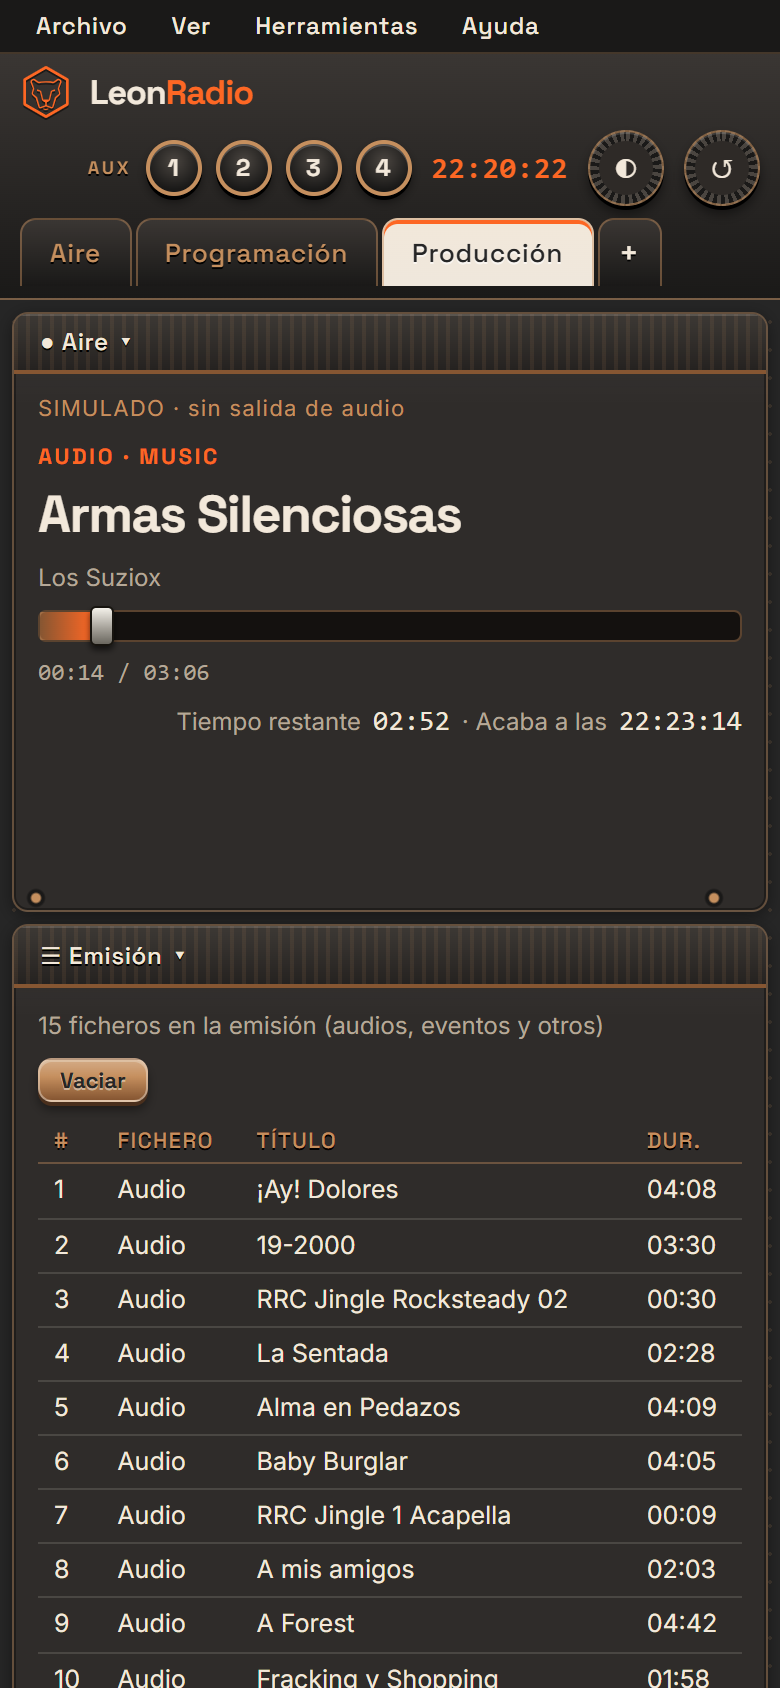
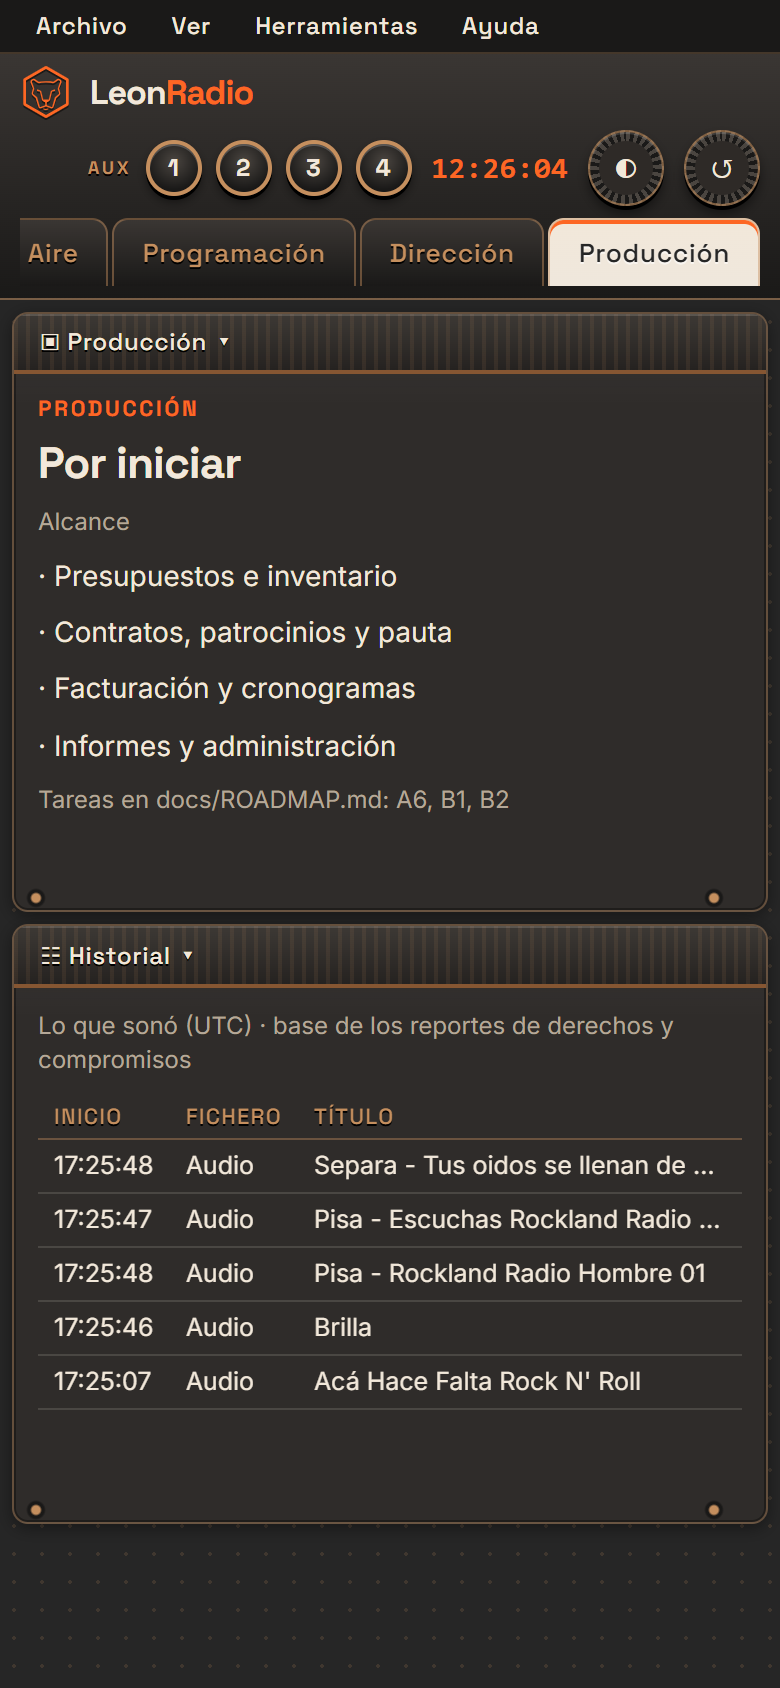
feat(ui): las cuatro estaciones como pestañas (Al Aire, Programación, Dirección, Producción) [S9]

diff --git a/ui/src/js/main.js b/ui/src/js/main.js
@@ -2,7 +2,7 @@ import { connectEvents, getEditors, getInfo } from "./api.js";
 import { AreaManager, area, hasEditor, split, toggleBeside } from "./areas.js";
 import { initMenus } from "./menus.js";
 
-const KEY = "leonradio.workspaces.v10";
+const KEY = "leonradio.workspaces.v11";
 // Tolerante: si un HTML viejo (en caché) no trae algún elemento, se usa uno suelto en vez de fallar.
 const $ = (s) => document.querySelector(s) ?? document.createElement("div");
 const store = {
@@ -13,7 +13,8 @@ const store = {
 const defaults = () => ({
   active: 0,
   list: [
-    { name: "Aire", tree: split("v",
+    // Las cuatro estaciones de trabajo, en el orden de la arquitectura: Al Aire, Programación, Dirección, Producción.
+    { name: "Al Aire", tree: split("v",
         // franja superior delgada: Reloj | VU | Aire | Próxima | Controles
         split("h", area("reloj", true),
           split("h", area("vu", true),
@@ -23,10 +24,11 @@ const defaults = () => ({
           split("v", area("varios"), area("historial"), 0.6),
           split("v", area("emision"), area("metadatos"), 0.78), 0.34),
         0.22) },
-    { name: "Programación", tree: split("h", area("emision"), area("historial"), 0.45) },
-    { name: "Producción", tree: split("h",
-        split("v", area("aire"), area("emision"), 0.4),
-        split("v", area("ejemplo.hora"), area("varios"), 0.4), 0.55) },
+    { name: "Programación", tree: split("h",
+        split("v", area("programacion"), area("varios"), 0.3),
+        split("v", area("emision"), area("historial"), 0.62), 0.4) },
+    { name: "Dirección", tree: split("h", area("direccion"), area("historial"), 0.5) },
+    { name: "Producción", tree: split("h", area("produccion"), area("historial"), 0.5) },
   ],
 });
 

diff --git a/tools/screenshots.py b/tools/screenshots.py
@@ -59,10 +59,7 @@ with sync_playwright() as p:
     shot(page, "aire-oscuro")
 
     page.get_by_role("tab", name="Producción").click()
-    page.get_by_role("button", name="Pulsar").click()
-    page.wait_for_timeout(500)
-    page.get_by_role("button", name="Pulsar").click()
-    shot(page, "produccion-addon")
+    shot(page, "produccion")
 
     page.get_by_role("tab", name="Programación").click()
     shot(page, "programacion")

diff --git a/README.md b/README.md
@@ -13,7 +13,7 @@ Automatizador de radio con **audio real** (WASAPI), listas de ficheros, botonera
 
 > Las piezas que se ven son de la emisora de pruebas RRC. Las capturas se hicieron sin salida de audio (VU «SIMULADO»); con `iniciar-leonradio.bat` suena de verdad.
 
-**Workspace «Aire»**: una franja superior delgada con Reloj, VU de agujas, Aire (barra con control deslizante, tiempo restante y hora de fin), Próxima y los **Controles** de reproducción (Play, Pausa, Stop, Siguiente y «parar tras la actual»). Debajo, **Varios** (un panel de pestañas: Botonera, Eventos, Explorador, Navegador y los que acoples con ＋) y el Historial a la izquierda, y la **Emisión** con la ficha de **Metadatos** debajo. Las **4 listas Auxiliares** se activan desde la barra de herramientas (AUX 1–4) y se abren en fila, con los mismos controles que la Emisión.
+**Estación «Al Aire»**: una franja superior delgada con Reloj, VU de agujas, Aire (barra con control deslizante, tiempo restante y hora de fin), Próxima y los **Controles** de reproducción (Play, Pausa, Stop, Siguiente y «parar tras la actual»). Debajo, **Varios** (un panel de pestañas: Botonera, Eventos, Explorador, Navegador y los que acoples con ＋) y el Historial a la izquierda, y la **Emisión** con la ficha de **Metadatos** debajo. Las **4 listas Auxiliares** se activan desde la barra de herramientas (AUX 1–4) y se abren en fila, con los mismos controles que la Emisión.
 
 ![Workspace Aire, tema oscuro](docs/img/aire-oscuro.png)
 
@@ -27,13 +27,11 @@ Automatizador de radio con **audio real** (WASAPI), listas de ficheros, botonera
 
 ![Workspace Aire, tema claro](docs/img/aire-claro.png)
 
-**Workspace «Programación»**: las áreas se dividen, unen y redimensionan, y cada una cambia de editor desde su selector.
+**Las cuatro estaciones**: la barra superior tiene una pestaña por estación de trabajo —**Al Aire**, **Programación**, **Dirección** y **Producción**—, cada una con su diseño de paneles. Comparten la misma información y los paneles comunes (Historial, Metadatos…); Programación, Dirección y Producción tienen su panel de resumen y crecerán por separado (ver [docs/estaciones.md](docs/estaciones.md)). Las áreas se dividen, unen y redimensionan, y cada una cambia de editor desde su menú en columnas.
 
-![Workspace Programación](docs/img/programacion.png)
+![Estación Programación](docs/img/programacion.png)
 
-**Workspace «Producción»**: arriba a la derecha, un editor aportado por un **addon** de ejemplo (`addons/ejemplo_hora_emisora`).
-
-![Workspace Producción con un addon](docs/img/produccion-addon.png)
+![Estación Producción](docs/img/produccion.png)
 
 **En el teléfono**: en pantallas estrechas las áreas se apilan, la página se desplaza, los botones son táctiles y las tablas ocultan columnas secundarias.
 
